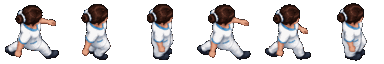
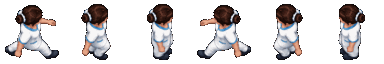
看護師の左右交互歩行を修正

Changed region(s): [[0.5, 0.0625, 0.6562, 0.9375], [0.6875, 0.0625, 0.8125, 0.9375], [0.875, 0.0312, 0.9688, 0.9375]]

diff --git a/edit/editor.js b/edit/editor.js
@@ -12,7 +12,7 @@
   const canvas = $("map-canvas");
   const ctx = canvas.getContext("2d");
   const nurseSprite = new Image();
-  nurseSprite.src = "assets/nurse-walk-6.png?v=20260727-1";
+  nurseSprite.src = "assets/nurse-walk-6.png?v=20260727-3";
 
   const tiles = {
     floor: { name: "床", layer: "floor", w: 1, h: 1, draw: drawFloor },

diff --git a/edit/index.html b/edit/index.html
@@ -129,6 +129,6 @@
     </aside>
   </main>
 
-  <script src="editor.js?v=20260727-1"></script>
+  <script src="editor.js?v=20260727-3"></script>
 </body>
 </html>
